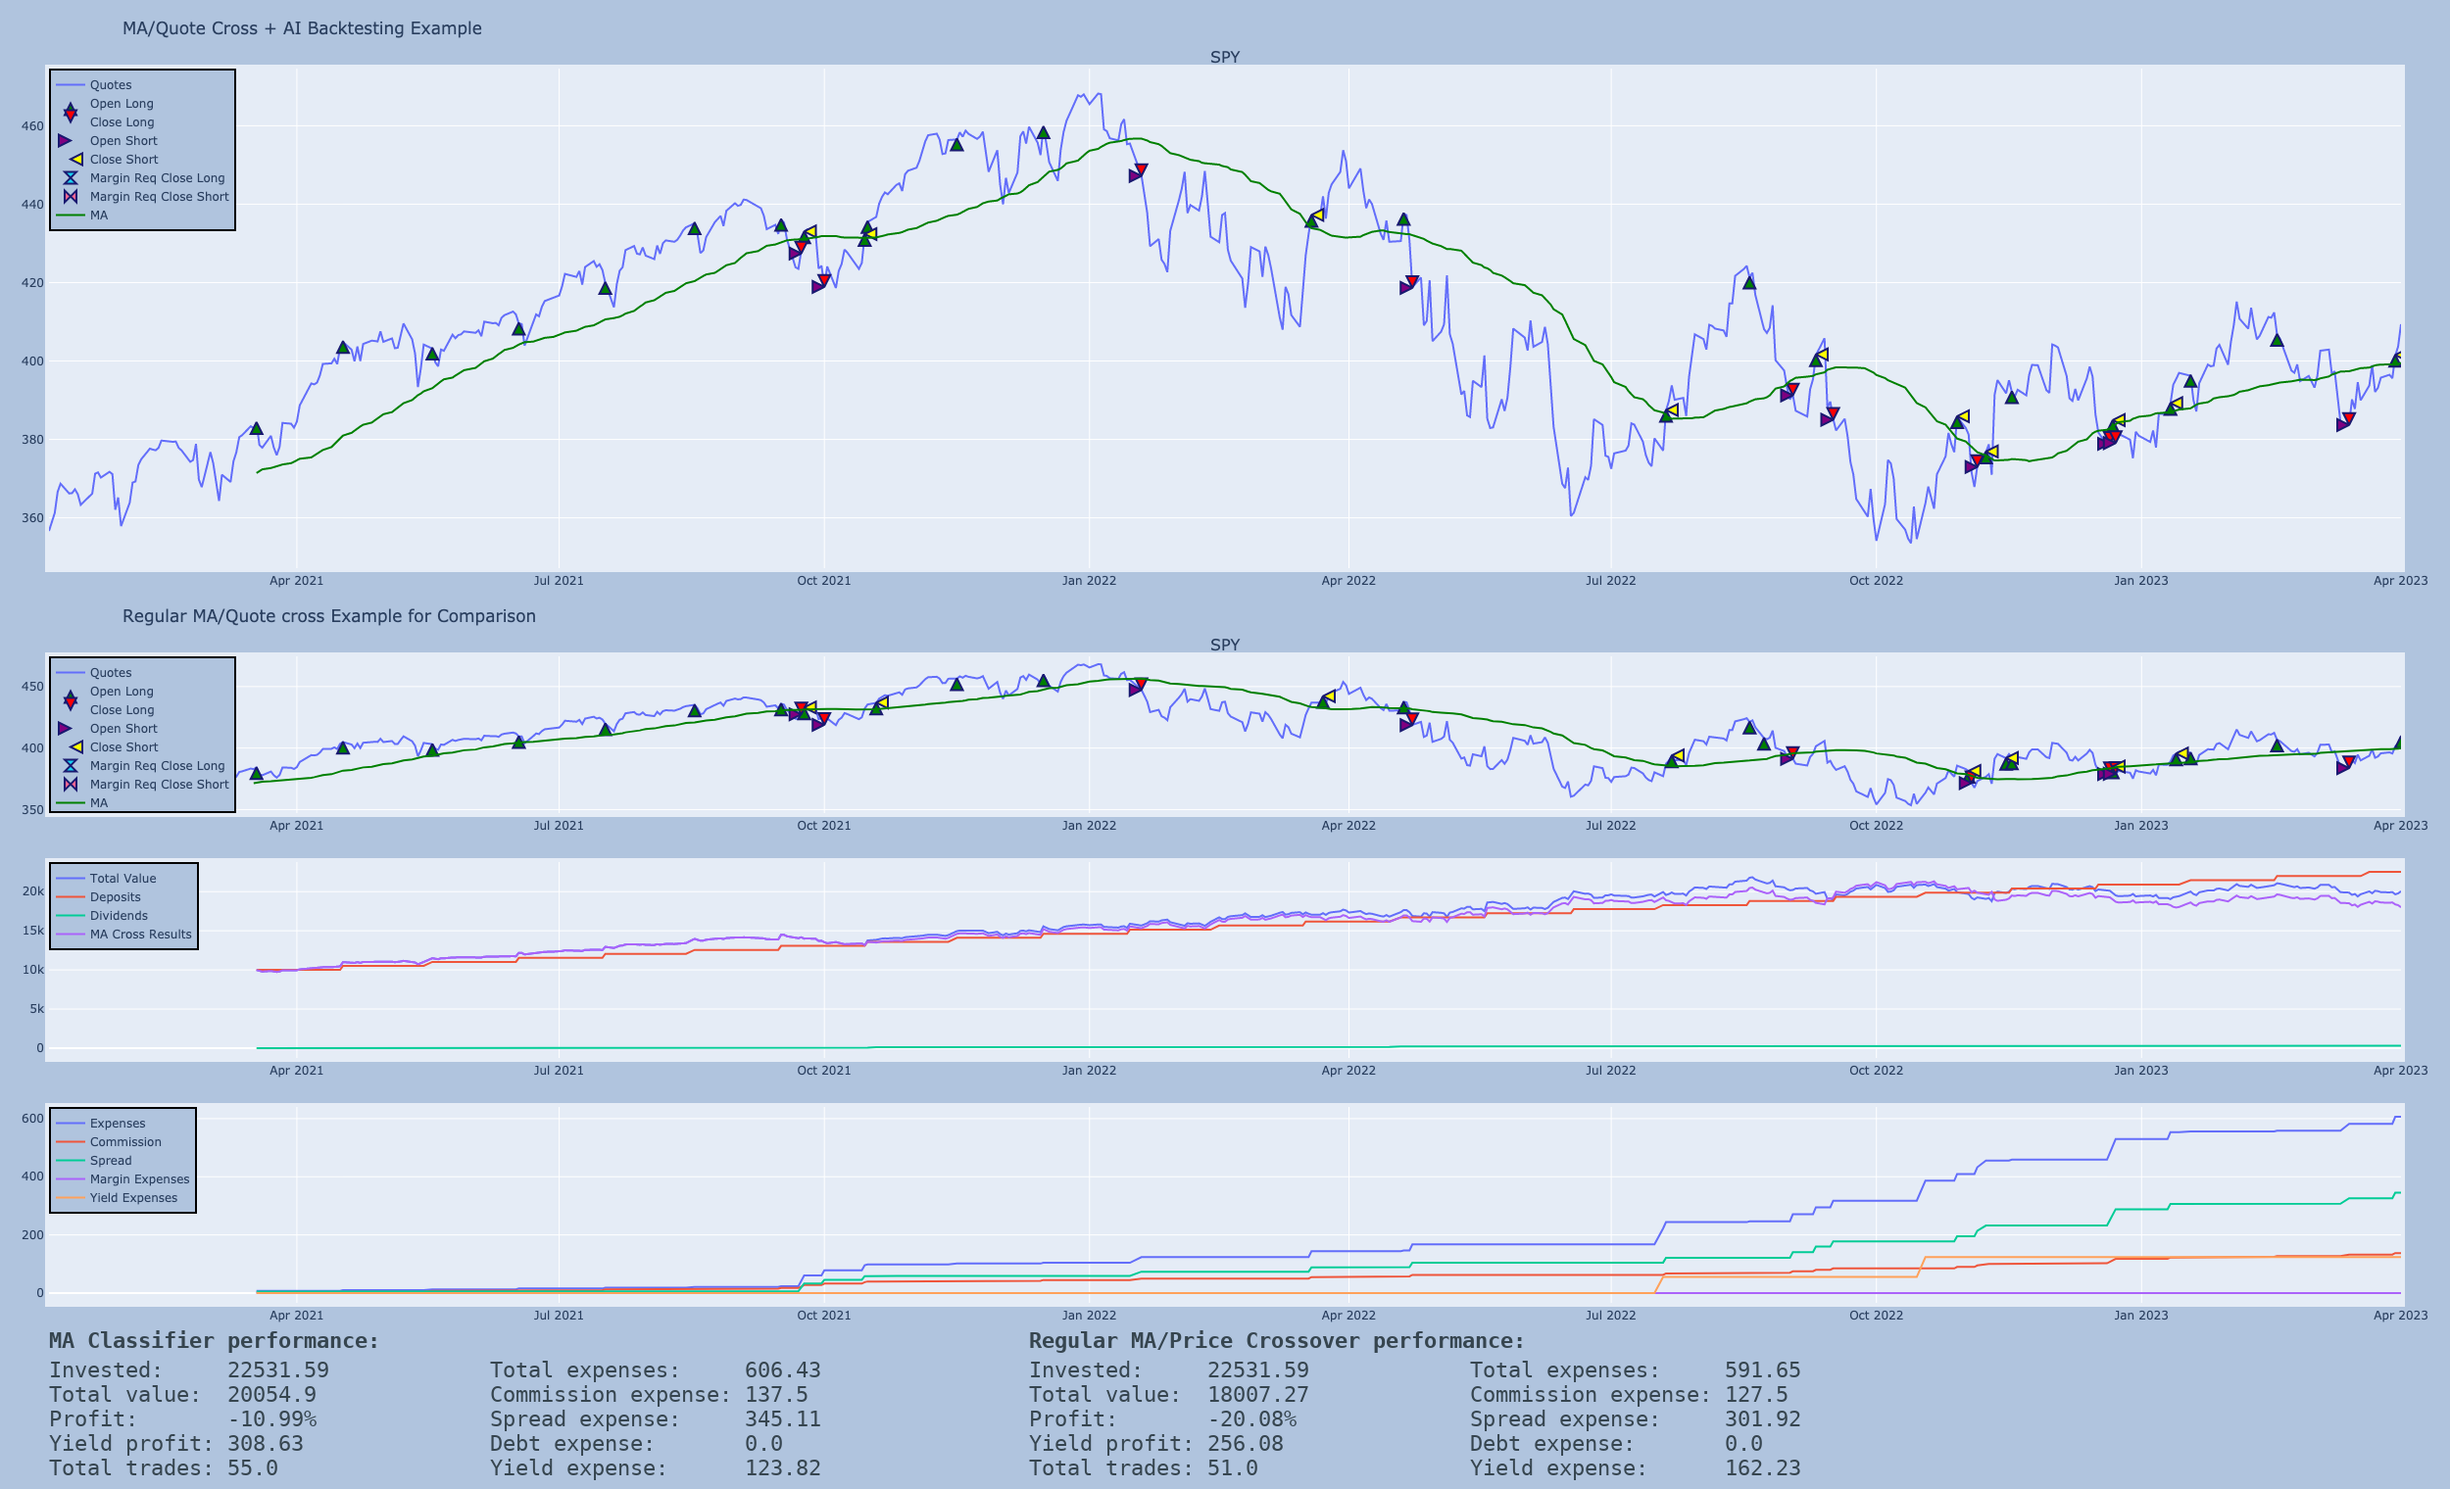
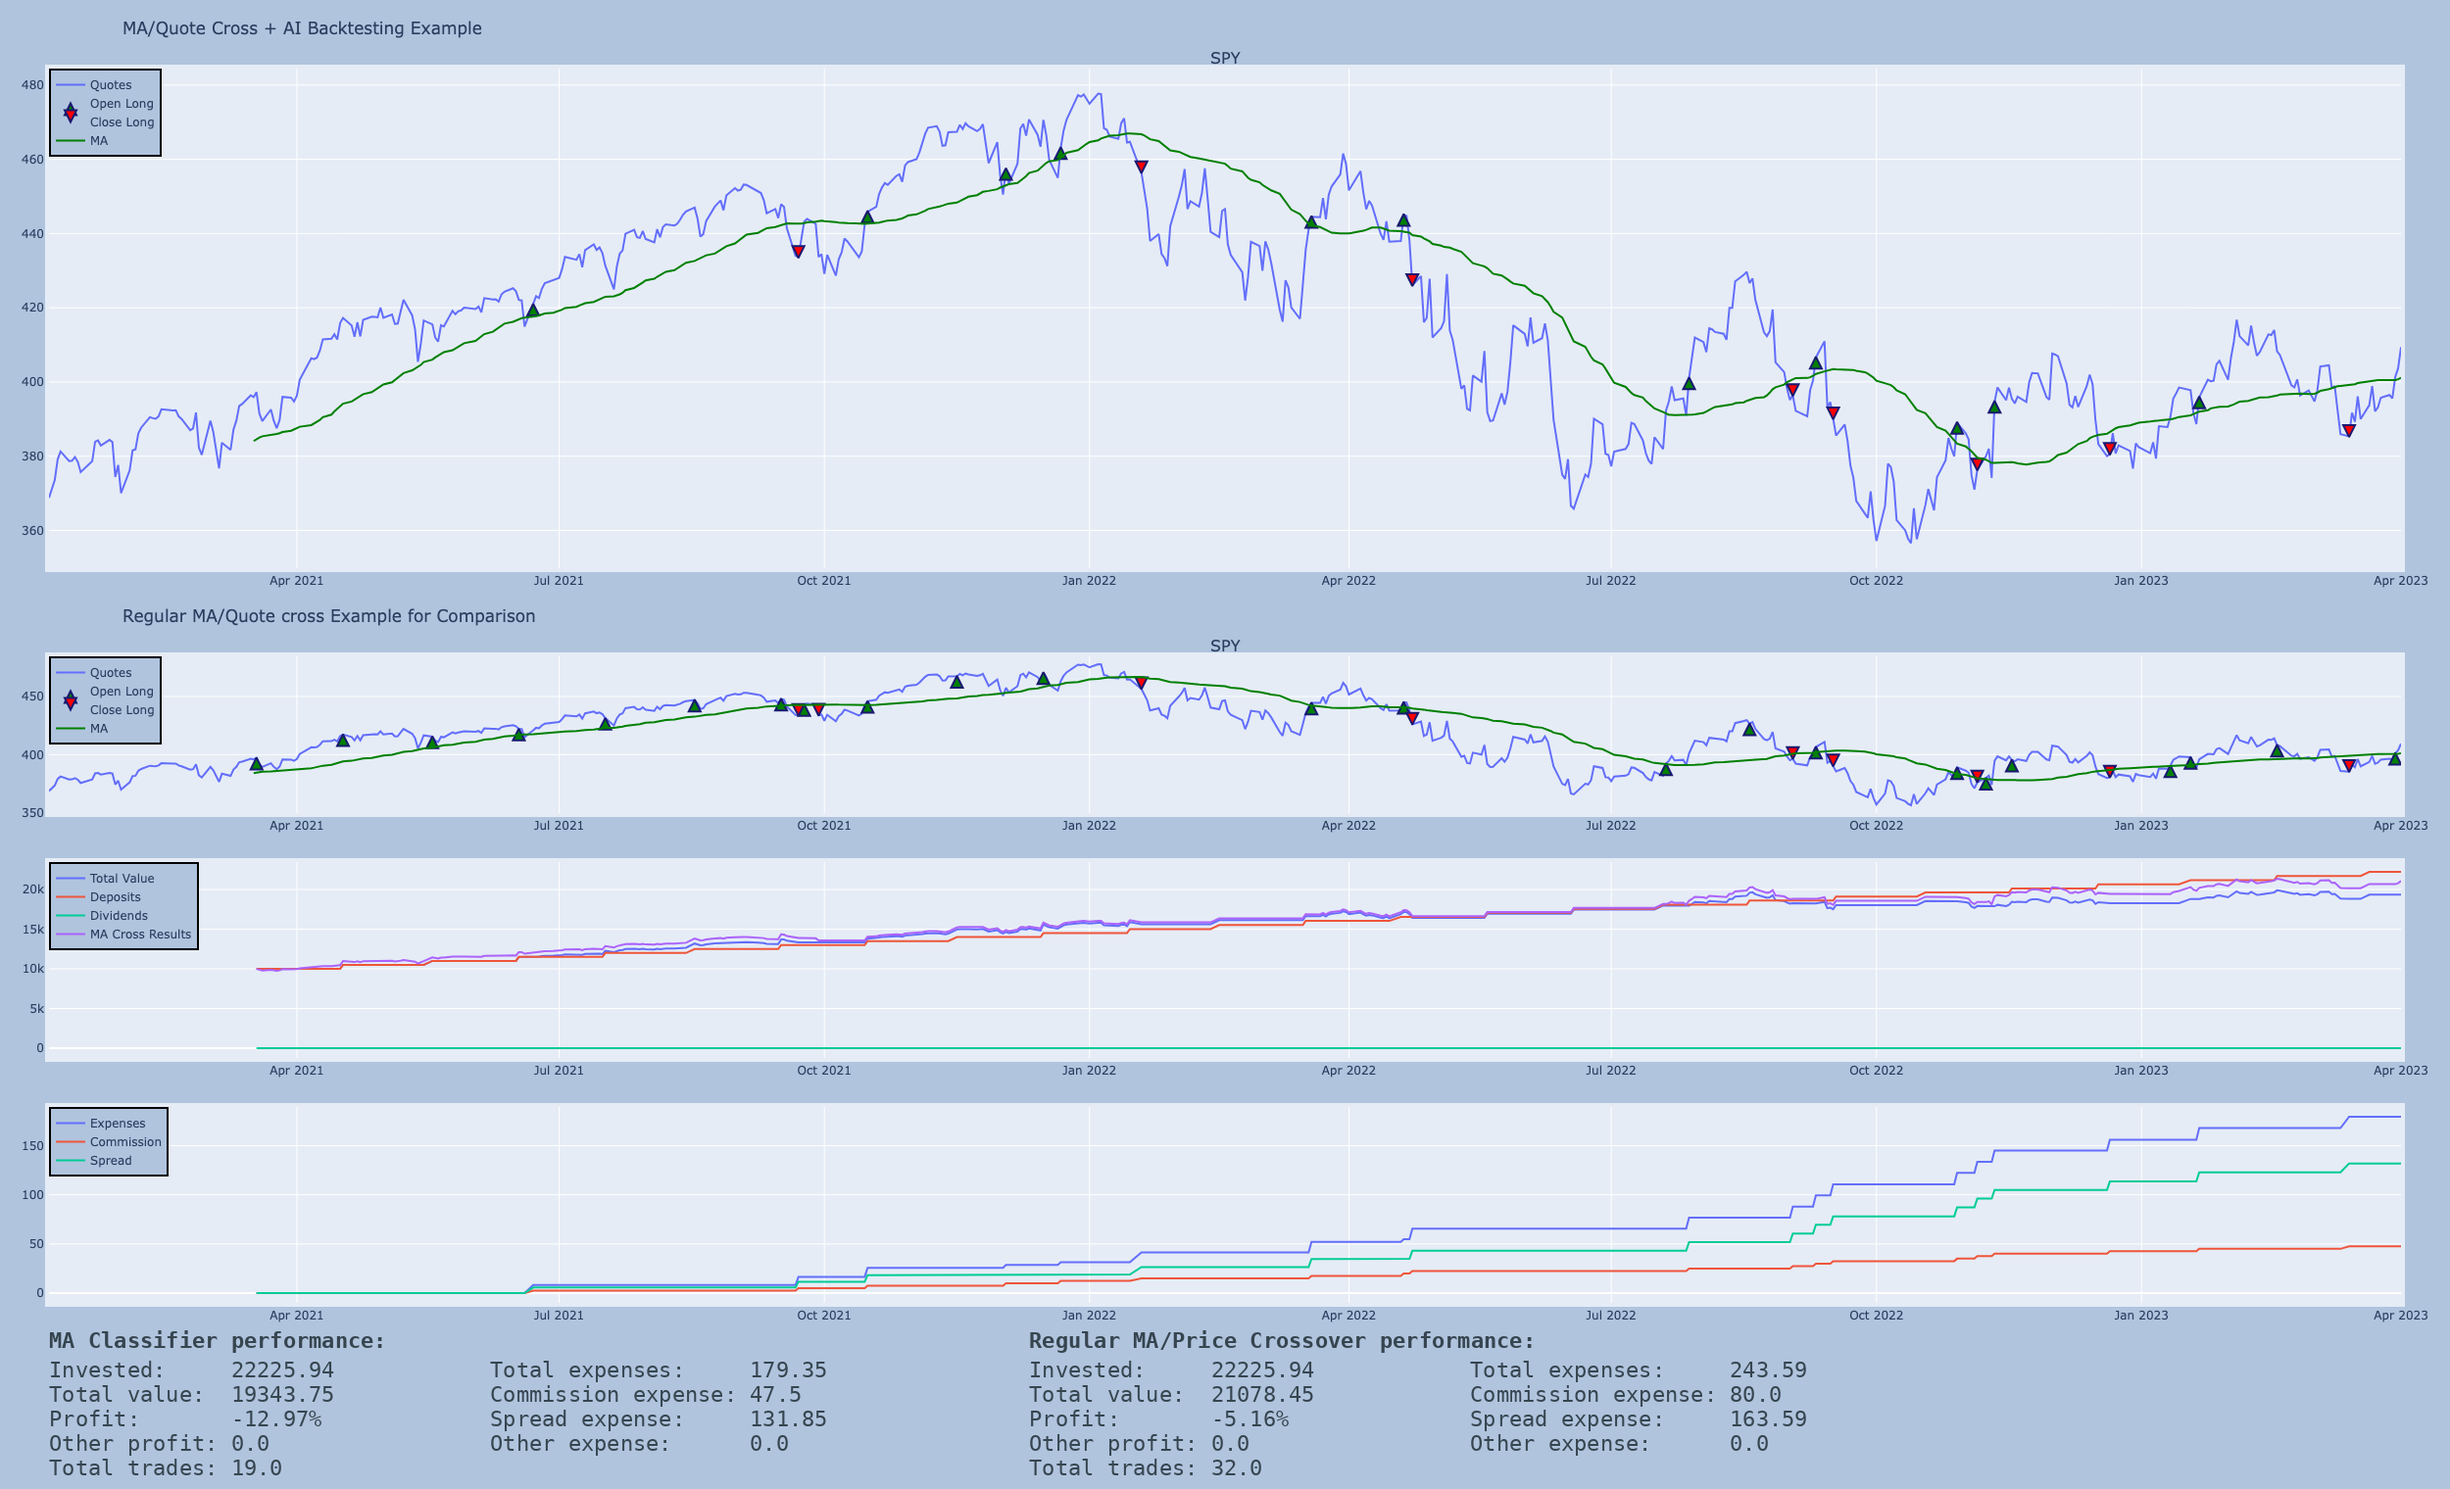
MA Classification fix

diff --git a/backtest/ma.py b/backtest/ma.py
@@ -128,13 +128,11 @@ class MA(BackTest):
                         self.exec().close_all()
 
             ########################
-            # Open/close positions
+            # Open positions
             ########################
 
-            if self.is_uptrend() == True:
+            if self.is_uptrend() == True and self.signal_open_long():
                 self.exec().open_long_max()
-            elif self.is_uptrend() == False and self.exec().get_long_positions() > 0:
-                self.exec().close_all()
 
             ##############################
             # Teardown the cycle

diff --git a/backtest/base.py b/backtest/base.py
@@ -3174,6 +3174,17 @@ class BackTest(metaclass=abc.ABCMeta):
         # In the default case there is no signal verification.
         return False
 
+    def signal_open_long(self):
+        """
+            Determines if opening a long position is permitted in the current cycle.
+
+            Returns:
+                bool: True if opening a long position is permitted, False otherwise.
+        """
+
+        # In the default case, opening is always allowed.
+        return True
+
     def any_signal(self):
         """
             Indicates if buy/sell signal was considered as true.

diff --git a/demo/backtest/ma_classification_test.py b/demo/backtest/ma_classification_test.py
@@ -6,8 +6,6 @@ Distributed under Fcore License 1.1 (see license.md)
 """
 import warnings
 
-# TODO HIGH Check why the numbers with or without classification (and even of different intervals) are similar
-
 # Suppress third-party library deprecation warnings
 warnings.filterwarnings("ignore", category=DeprecationWarning, module="pandas_ta")
 warnings.filterwarnings("ignore", category=Warning, module="pandas_ta")

diff --git a/backtest/ma_classification.py b/backtest/ma_classification.py
@@ -122,3 +122,12 @@ class MAClassification(MA):
             return True
 
         return False
+
+    def signal_open_long(self):
+        """
+            Gate opening long positions on the AI buy-signal verification.
+
+            Returns:
+                bool: True if opening a long position is permitted, False otherwise.
+        """
+        return self.signal_buy()

diff --git a/readme.md b/readme.md
@@ -144,8 +144,6 @@ Invoke **python -m quickstart.min_ma_classification** to run the example.
 It is the report generated by the script above:
 ![Backtesting Report](ma_classification.png "Backtesting Report")
 
-Here we see that classification helped to better distinguish signals of the strategy and decreased the losses.
-
 ## Other Examples
 
 The examples above are only a little part of what Fcore is capable. The following examples illustrates the wider usage of the framework.
